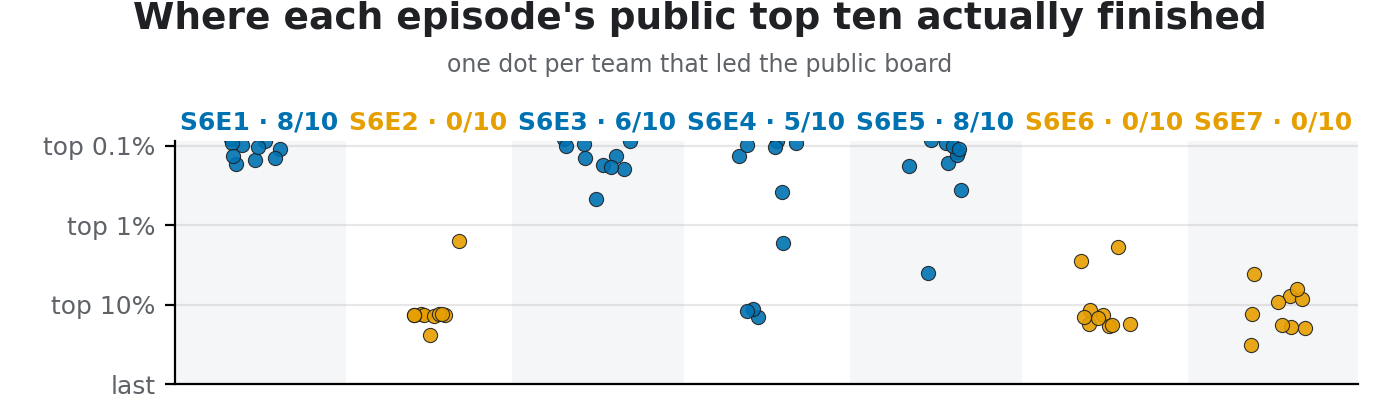
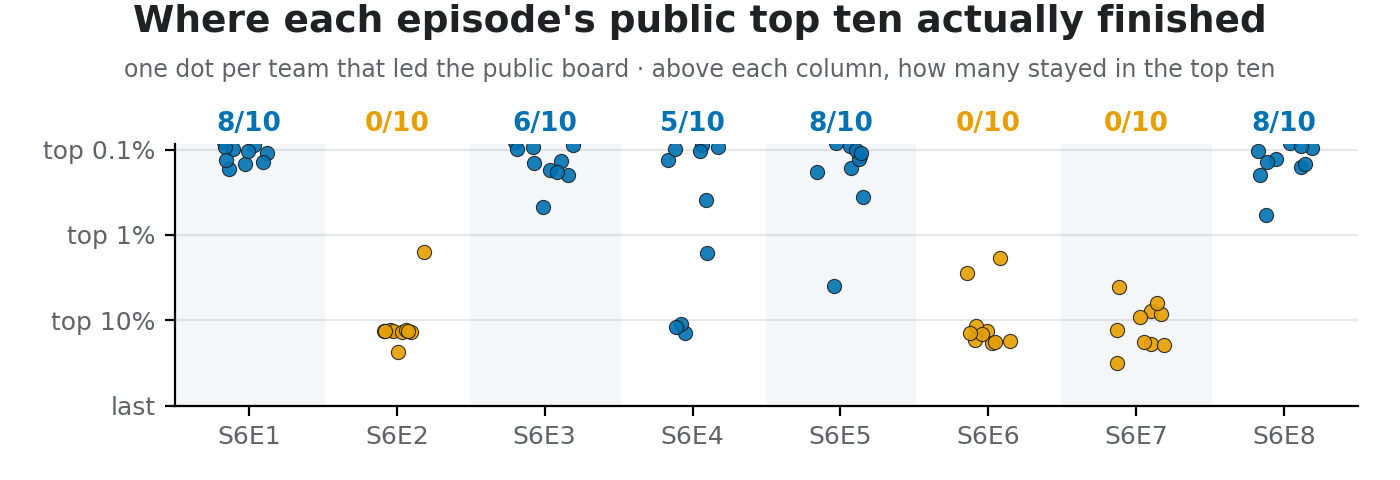
Add the post-close resolver and retitle the S6E8 folder README
The competition closed on 31 August. resolve_prediction.py scores the
three predictions section 12b registered before the split and replays
finished episodes to check itself against published counts.

diff --git a/notebooks/s6e8-gaming-hours/scripts/resolve_prediction.py b/notebooks/s6e8-gaming-hours/scripts/resolve_prediction.py
@@ -1,0 +1,94 @@
+"""Score section 12b's bet the hour the private board lands, not the evening after.
+
+12b, written before the split: "At most two of the public top ten will be in the private top
+ten, or at least five. Three or four and I am wrong." This resolves that against the real
+board, plus the three things the notebook will be asked about the moment results appear:
+where the private top ten came from, whether the seven-board cushion base rate held here,
+and how this episode's kept count sits against its seven predecessors.
+
+Two modes, so the logic is exercised before it is needed:
+
+  python3 resolve_prediction.py --test S6E7     replay a finished episode from the dataset
+  python3 resolve_prediction.py --live pub.csv priv.csv     the real thing on 1 September
+
+The test mode is the point: every number below is computed by the same function on a board
+whose answer is already known and published in section 12.
+"""
+import argparse
+import math
+import sys
+
+import pandas as pd
+
+BOARDS = "../s6_boards/dataset/s6_leaderboards.csv"
+KNOWN = {"S6E1": 8, "S6E2": 0, "S6E3": 6, "S6E4": 5, "S6E5": 8, "S6E6": 0, "S6E7": 0}
+WATCH = ["Georgy Mamarin", "Chris Deotte", "Dariush Afshar"]
+
+
+def resolve(df, label):
+    """df: one row per team with public_rank, private_rank, teams implied by len(df)."""
+    n = len(df)
+    line = math.ceil(0.05 * n)
+    top = df[df.public_rank <= 10]
+    kept = int((top.private_rank <= 10).sum())
+    came = df.public_rank[df.private_rank <= 10]
+
+    print(f"\n=== {label}: {n:,} teams, top-5% line at rank {line} ===")
+    print(f"kept of the public top ten: {kept}")
+    verdict = "RIGHT" if kept <= 2 or kept >= 5 else "WRONG"
+    print(f"12b bet (at most two, or at least five): {verdict}"
+          + ("" if verdict == "RIGHT" else "   <- three or four, exactly the losing band"))
+    print(f"the private top ten came from public {int(came.min())}-{int(came.max())}"
+          f"   ({int((came > 100).sum())} of 10 from outside the public top hundred)")
+
+    # the cushion base rate the comment thread quoted: 6-15 ranks inside the line
+    band = df[(df.public_rank >= line - 15) & (df.public_rank <= line - 6)]
+    stayed = int((band.private_rank <= line).sum())
+    print(f"cushion 6-15 inside the line: {stayed} of {len(band)} stayed inside"
+          f"   (seven-board base rate was 20 of 70, 29%)")
+
+    for name in WATCH:
+        row = df[df.team_name.astype(str).str.fullmatch(name, case=False, na=False)]
+        if len(row):
+            r = row.iloc[0]
+            print(f"  {name}: public {int(r.public_rank)} -> private {int(r.private_rank)}"
+                  f"   ({int(r.public_rank) - int(r.private_rank):+d})")
+    return kept
+
+
+def main():
+    ap = argparse.ArgumentParser()
+    ap.add_argument("--test", metavar="EPISODE")
+    ap.add_argument("--live", nargs=2, metavar=("PUBLIC_CSV", "PRIVATE_CSV"))
+    a = ap.parse_args()
+
+    if a.test:
+        lb = pd.read_csv(BOARDS)
+        lb = lb[(~lb.is_host_baseline) & (lb.episode == a.test)]
+        if not len(lb):
+            sys.exit(f"no rows for {a.test}")
+        kept = resolve(lb, f"{a.test} (replay)")
+        want = KNOWN.get(a.test)
+        print(f"\ncheck against section 12's published count: {want} -> "
+              f"{'MATCH' if kept == want else 'MISMATCH, the resolver is wrong'}")
+        sys.exit(0 if kept == want else 1)
+
+    if a.live:
+        pub = pd.read_csv(a.live[0]); priv = pd.read_csv(a.live[1])
+        pub.columns = [c.strip().lower() for c in pub.columns]
+        priv.columns = [c.strip().lower() for c in priv.columns]
+        key = "teamid" if "teamid" in pub.columns else "teamname"
+        pub = pub.sort_values("score", ascending=False).reset_index(drop=True)
+        priv = priv.sort_values("score", ascending=False).reset_index(drop=True)
+        pub["public_rank"] = pub.index + 1
+        priv["private_rank"] = priv.index + 1
+        df = pub.merge(priv[[key, "private_rank"]], on=key, how="inner")
+        df["team_name"] = df["teamname"]
+        resolve(df, "S6E8 (live)")
+        sys.exit(0)
+
+    ap.print_help()
+
+
+if __name__ == "__main__":
+    main()

diff --git a/notebooks/s6e8-gaming-hours/README.md b/notebooks/s6e8-gaming-hours/README.md
@@ -1,7 +1,7 @@
-# S6E8: will your 0.971 survive the private split? — measurement scripts
+# S6E8: what eight finished boards say about shakeups — measurement scripts
 
 The notebook lives on Kaggle:
-[S6E8: will your 0.971 survive the private split?](https://www.kaggle.com/code/georgymamarin/s6e8-will-your-0-971-survive-the-private-split).
+[S6E8: what eight finished boards say about shakeups](https://www.kaggle.com/code/georgymamarin/s6e8-will-your-0-971-survive-the-private-split).
 Every number its prose types in by hand, rather than computes in a cell, is reproduced by one of
 the scripts here, run against the public downloads they name in their docstrings.
 
@@ -16,6 +16,7 @@ the scripts here, run against the public downloads they name in their docstrings
 | `scripts/reference.py`, `scripts/gate.py` | the shared harness the gate scripts import: the weak and strong references, features, folds |
 | `scripts/gate_split.py`, `scripts/gate10.py` | section 9's off-notebook runs: the slack split and the ten-fold check (the capacity-versus-encoding arms live in `reference.py`) |
 | `scripts/cushion_survival.py` | the comment-thread answer on top-5% cushions: how often 1-5 / 6-15 / 16-40 ranks inside the public 5% line survived the private split on the seven finished boards, with the single-submission selection control |
+| `scripts/resolve_prediction.py` | section 12c's resolution: scores the three predictions 12b registered before the split, and replays any finished episode (`--test S6E7`) to check the resolver against a published answer |
 | `scripts/check_names.py` | the pre-push checker for notebook cells: names loaded before anything binds them, and helpers clobbered by later cells |
 
 Data inputs: the competition files, [the S6 leaderboards dataset](https://www.kaggle.com/datasets/georgymamarin/playground-series-s6-leaderboards),
